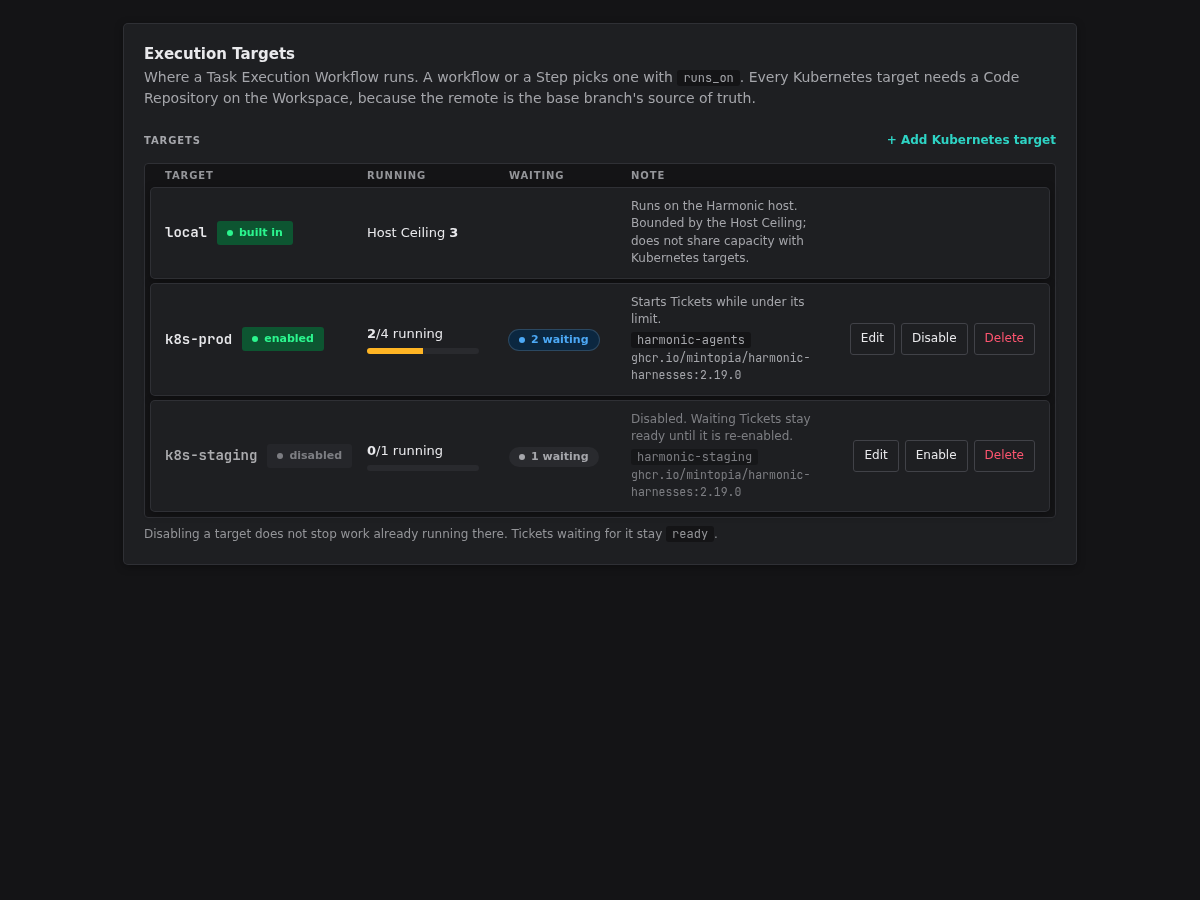
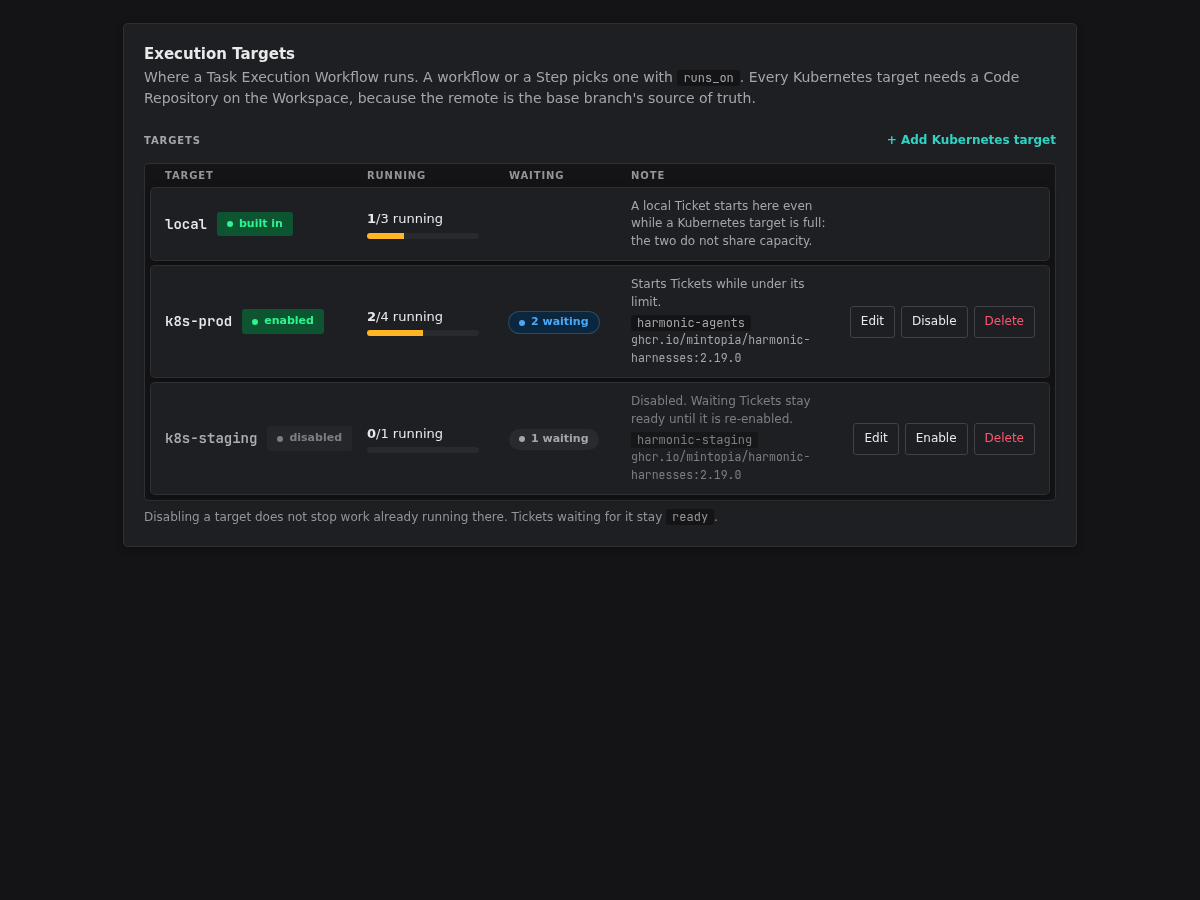
fix(execution): local row shows running over Host Ceiling with mockup note; drop narrating doc comment (#941)

diff --git a/web/src/components/ExecutionTargetsSettings.tsx b/web/src/components/ExecutionTargetsSettings.tsx
@@ -112,7 +112,7 @@ export function ExecutionTargetsPanel({ hostCeiling }: { hostCeiling: number }) 
             <span role="columnheader" className="sr-only">Actions</span>
           </div>
           {list.map((target) => {
-            const view = rowView(target);
+            const view = rowView(target, hostCeiling);
             const dim = target.enabled || target.builtIn ? '' : 'opacity-70';
             return (
               <div key={target.name} role="row" className={`${ROW_GRID} rounded-lg bg-surface shadow-card`}>
@@ -121,16 +121,10 @@ export function ExecutionTargetsPanel({ hostCeiling }: { hostCeiling: number }) 
                   <StatusPill label={view.statusLabel} />
                 </div>
                 <div role="cell" className="flex flex-col gap-1">
-                  {target.builtIn ? (
-                    <span className="text-[13px]">Host Ceiling <b>{hostCeiling}</b></span>
-                  ) : (
-                    <>
-                      <span className="text-[13px]"><b>{target.running}</b>/{target.concurrencyLimit} running</span>
-                      <span role="img" aria-label={view.runningLabel ?? ''} className="h-1.5 w-full max-w-28 overflow-hidden rounded-full bg-raised">
-                        <i className={`block h-full ${view.full ? 'bg-ready' : 'bg-running'}`} style={{ width: `${view.runningPercent}%` }} />
-                      </span>
-                    </>
-                  )}
+                  <span className="text-[13px]"><b>{target.running}</b>/{target.builtIn ? hostCeiling : target.concurrencyLimit} running</span>
+                  <span role="img" aria-label={view.runningLabel} className="h-1.5 w-full max-w-28 overflow-hidden rounded-full bg-raised">
+                    <i className={`block h-full ${view.full ? 'bg-ready' : 'bg-running'}`} style={{ width: `${view.runningPercent}%` }} />
+                  </span>
                 </div>
                 <div role="cell">
                   {!target.builtIn && target.waiting > 0 && (
@@ -143,11 +137,11 @@ export function ExecutionTargetsPanel({ hostCeiling }: { hostCeiling: number }) 
                 </div>
                 <div role="cell" className={`${dim} flex flex-col gap-1 text-small text-muted`}>
                   {target.builtIn ? (
-                    <span>Runs on the Harmonic host. Bounded by the Host Ceiling; does not share capacity with Kubernetes targets.</span>
+                    <span>A local Ticket starts here even while a Kubernetes target is full: the two do not share capacity.</span>
                   ) : (
                     <>
                       <span>
-                        {!target.enabled ? 'Disabled. Waiting Tickets stay ready until it is re-enabled.' : view.full ? 'Full. The next Ticket waits and starts when a running one finishes.' : 'Starts Tickets while under its limit.'}
+                        {!target.enabled ? 'Disabled. Waiting Tickets stay ready until it is re-enabled.' : view.full ? 'Full. The next Ticket waits and starts when the running one finishes.' : 'Starts Tickets while under its limit.'}
                       </span>
                       <span className="break-words">
                         <code className={codeInline}>{target.namespace}</code> <code className="font-data text-[11.5px]">{target.defaultImage}</code>

diff --git a/src/server/app-runtime.ts b/src/server/app-runtime.ts
@@ -2,6 +2,7 @@ import { defaultBranchPostMerge, type PostMergeHook } from '../execution/branch-
 import type { AsyncDbHandle } from '../db/async.js';
 import { dropIndexForPath } from '../execution/code-index.js';
 import { Git } from '../execution/git.js';
+import { LOCAL_TARGET } from '../execution/execution-targets.js';
 import { BranchRetirementCoordinator } from '../execution/branch-retirement.js';
 import type { TaskRow, AttemptRow } from '../db/schema.js';
 import { CrashRecoveryCoordinator } from '../execution/crash-recovery.js';
@@ -416,8 +417,7 @@ export async function createRuntime(deps: {
     byTarget: async () => {
       const found = new Map<string, { running: number[]; waiting: number[] }>();
       await forEachYielding(await tasks.list({ state: ['ready', 'working'] }), async (task) => {
-        const target = await runner.kubernetesTargetOfTask(task);
-        if (target === undefined) return;
+        const target = (await runner.kubernetesTargetOfTask(task)) ?? LOCAL_TARGET;
         const entry = found.get(target) ?? { running: [], waiting: [] };
         (task.state === 'working' ? entry.running : entry.waiting).push(task.id);
         found.set(target, entry);

diff --git a/web/src/execution-targets-model.ts b/web/src/execution-targets-model.ts
@@ -195,19 +195,19 @@ export interface RowView {
   name: string;
   builtIn: boolean;
   statusLabel: 'built in' | 'enabled' | 'disabled';
-  runningLabel: string | null;
+  runningLabel: string;
   runningPercent: number;
   full: boolean;
   toggleLabel: 'Enable' | 'Disable' | null;
 }
 
-export function rowView(target: ExecutionTarget): RowView {
-  const limit = target.concurrencyLimit ?? 0;
+export function rowView(target: ExecutionTarget, hostCeiling = 0): RowView {
+  const limit = target.builtIn ? hostCeiling : (target.concurrencyLimit ?? 0);
   return {
     name: target.name,
     builtIn: target.builtIn,
     statusLabel: target.builtIn ? 'built in' : target.enabled ? 'enabled' : 'disabled',
-    runningLabel: target.builtIn ? null : `${target.running}/${limit} running`,
+    runningLabel: `${target.running}/${limit} running`,
     runningPercent: limit > 0 ? Math.min(100, Math.round((target.running / limit) * 100)) : 0,
     full: limit > 0 && target.running >= limit,
     toggleLabel: target.builtIn ? null : target.enabled ? 'Disable' : 'Enable',

diff --git a/web/src/story/api-stub.ts b/web/src/story/api-stub.ts
@@ -298,7 +298,7 @@ const stubTarget = (name: string, enabled: boolean, running: number, limit: numb
   updatedAt: 1,
 });
 const executionTargetFixtures: ExecutionTarget[] = [
-  { name: 'local', builtIn: true, enabled: true, authMethod: null, namespace: null, defaultImage: null, cpu: null, memory: null, concurrencyLimit: null, repositoryProxyUrl: null, kubeconfig: null, proxyKey: null, credentials: [], running: 0, waiting: 0, createdAt: null, updatedAt: null },
+  { name: 'local', builtIn: true, enabled: true, authMethod: null, namespace: null, defaultImage: null, cpu: null, memory: null, concurrencyLimit: null, repositoryProxyUrl: null, kubeconfig: null, proxyKey: null, credentials: [], running: 1, waiting: 0, createdAt: null, updatedAt: null },
   stubTarget('k8s-prod', true, 2, 4, 'harmonic-agents'),
   stubTarget('k8s-staging', false, 0, 1, 'harmonic-staging'),
 ];

diff --git a/tests/execution-targets-model.test.ts b/tests/execution-targets-model.test.ts
@@ -128,6 +128,10 @@ describe('row view', () => {
     expect(rowView(prod)).toMatchObject({ statusLabel: 'enabled', runningLabel: '2/4 running', runningPercent: 50, full: false, toggleLabel: 'Disable' });
     expect(rowView({ ...prod, enabled: false, running: 4 })).toMatchObject({ statusLabel: 'disabled', full: true, toggleLabel: 'Enable' });
   });
+
+  it('counts the built-in local target against the Host Ceiling', () => {
+    expect(rowView({ ...prod, builtIn: true, concurrencyLimit: null, running: 1 }, 3)).toMatchObject({ runningLabel: '1/3 running', runningPercent: 33, full: false, toggleLabel: null });
+  });
 });
 
 describe('delete confirmation copy', () => {

diff --git a/src/execution/runner.ts b/src/execution/runner.ts
@@ -517,7 +517,6 @@ export class Runner {
     await this.settleEscalated(task, run, reason, {});
   }
 
-  /** Stops a running Ticket's Attempt, or claims a waiting one, then escalates it. */
   async escalateForTarget(taskId: number, reason: string): Promise<void> {
     const task = await this.taskService.get(taskId);
     if (task.state === 'ready') return this.escalateUnspawned(taskId, reason);

diff --git a/src/execution/execution-targets.ts b/src/execution/execution-targets.ts
@@ -302,7 +302,8 @@ export class ExecutionTargetService {
   }
 
   async listWithLocal(): Promise<ExecutionTargetView[]> {
-    return [LOCAL_TARGET_VIEW, ...(await this.list())];
+    const local = { ...LOCAL_TARGET_VIEW, ...(await this.counts(LOCAL_TARGET)) };
+    return [local, ...(await this.list())];
   }
 
   async get(name: string): Promise<ExecutionTargetView> {
